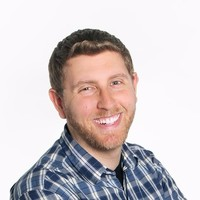
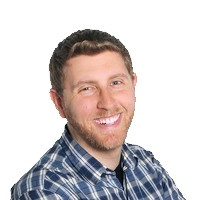
slight about page adjustments

diff --git a/src/components/pages/About/About.jsx b/src/components/pages/About/About.jsx
@@ -4,7 +4,8 @@ import Row from 'react-bootstrap/Row';
 import Container from 'react-bootstrap/Container';
 import Col from 'react-bootstrap/Col';
 import Me from '../../../assets/images/jarredSutton.jpg';
-import Teaching from '../../../assets/images/jarred-sutton-teaching.jpg'
+import Teaching from '../../../assets/images/jarred-sutton-teaching.jpg';
+import Travel from '../../../assets/images/jarred-sutton-travel.jpg'
 
 const About = () => {
   
@@ -13,7 +14,10 @@ const About = () => {
           <div className="">
             <Container>
                 <Row>
-                    <img src={Me} alt="Jarred Sutton" />
+                    <img className="aboutImage" src={Me} alt="Jarred Sutton" />
+                    <h3>
+                        A Little About Me..
+                    </h3>
                     <p>
 
                     </p>
@@ -22,10 +26,10 @@ const About = () => {
                     <p>
 
                     </p>
-                    <img src={Me} alt="Jarred Sutton" />
+                    <img className="aboutImage" src={Travel} alt="Jarred Sutton" />
                 </Row>
                 <Row>
-                    <img src={Me} alt="Jarred Sutton" />
+                    <img className="aboutImage" src={Teaching} alt="Jarred Sutton" />
                     <p>
 
                     </p>

diff --git a/src/components/pages/About/aboutStyle.css b/src/components/pages/About/aboutStyle.css
@@ -1,0 +1,4 @@
+.aboutImage {
+    height: 20vh;
+    width: auto;
+}
